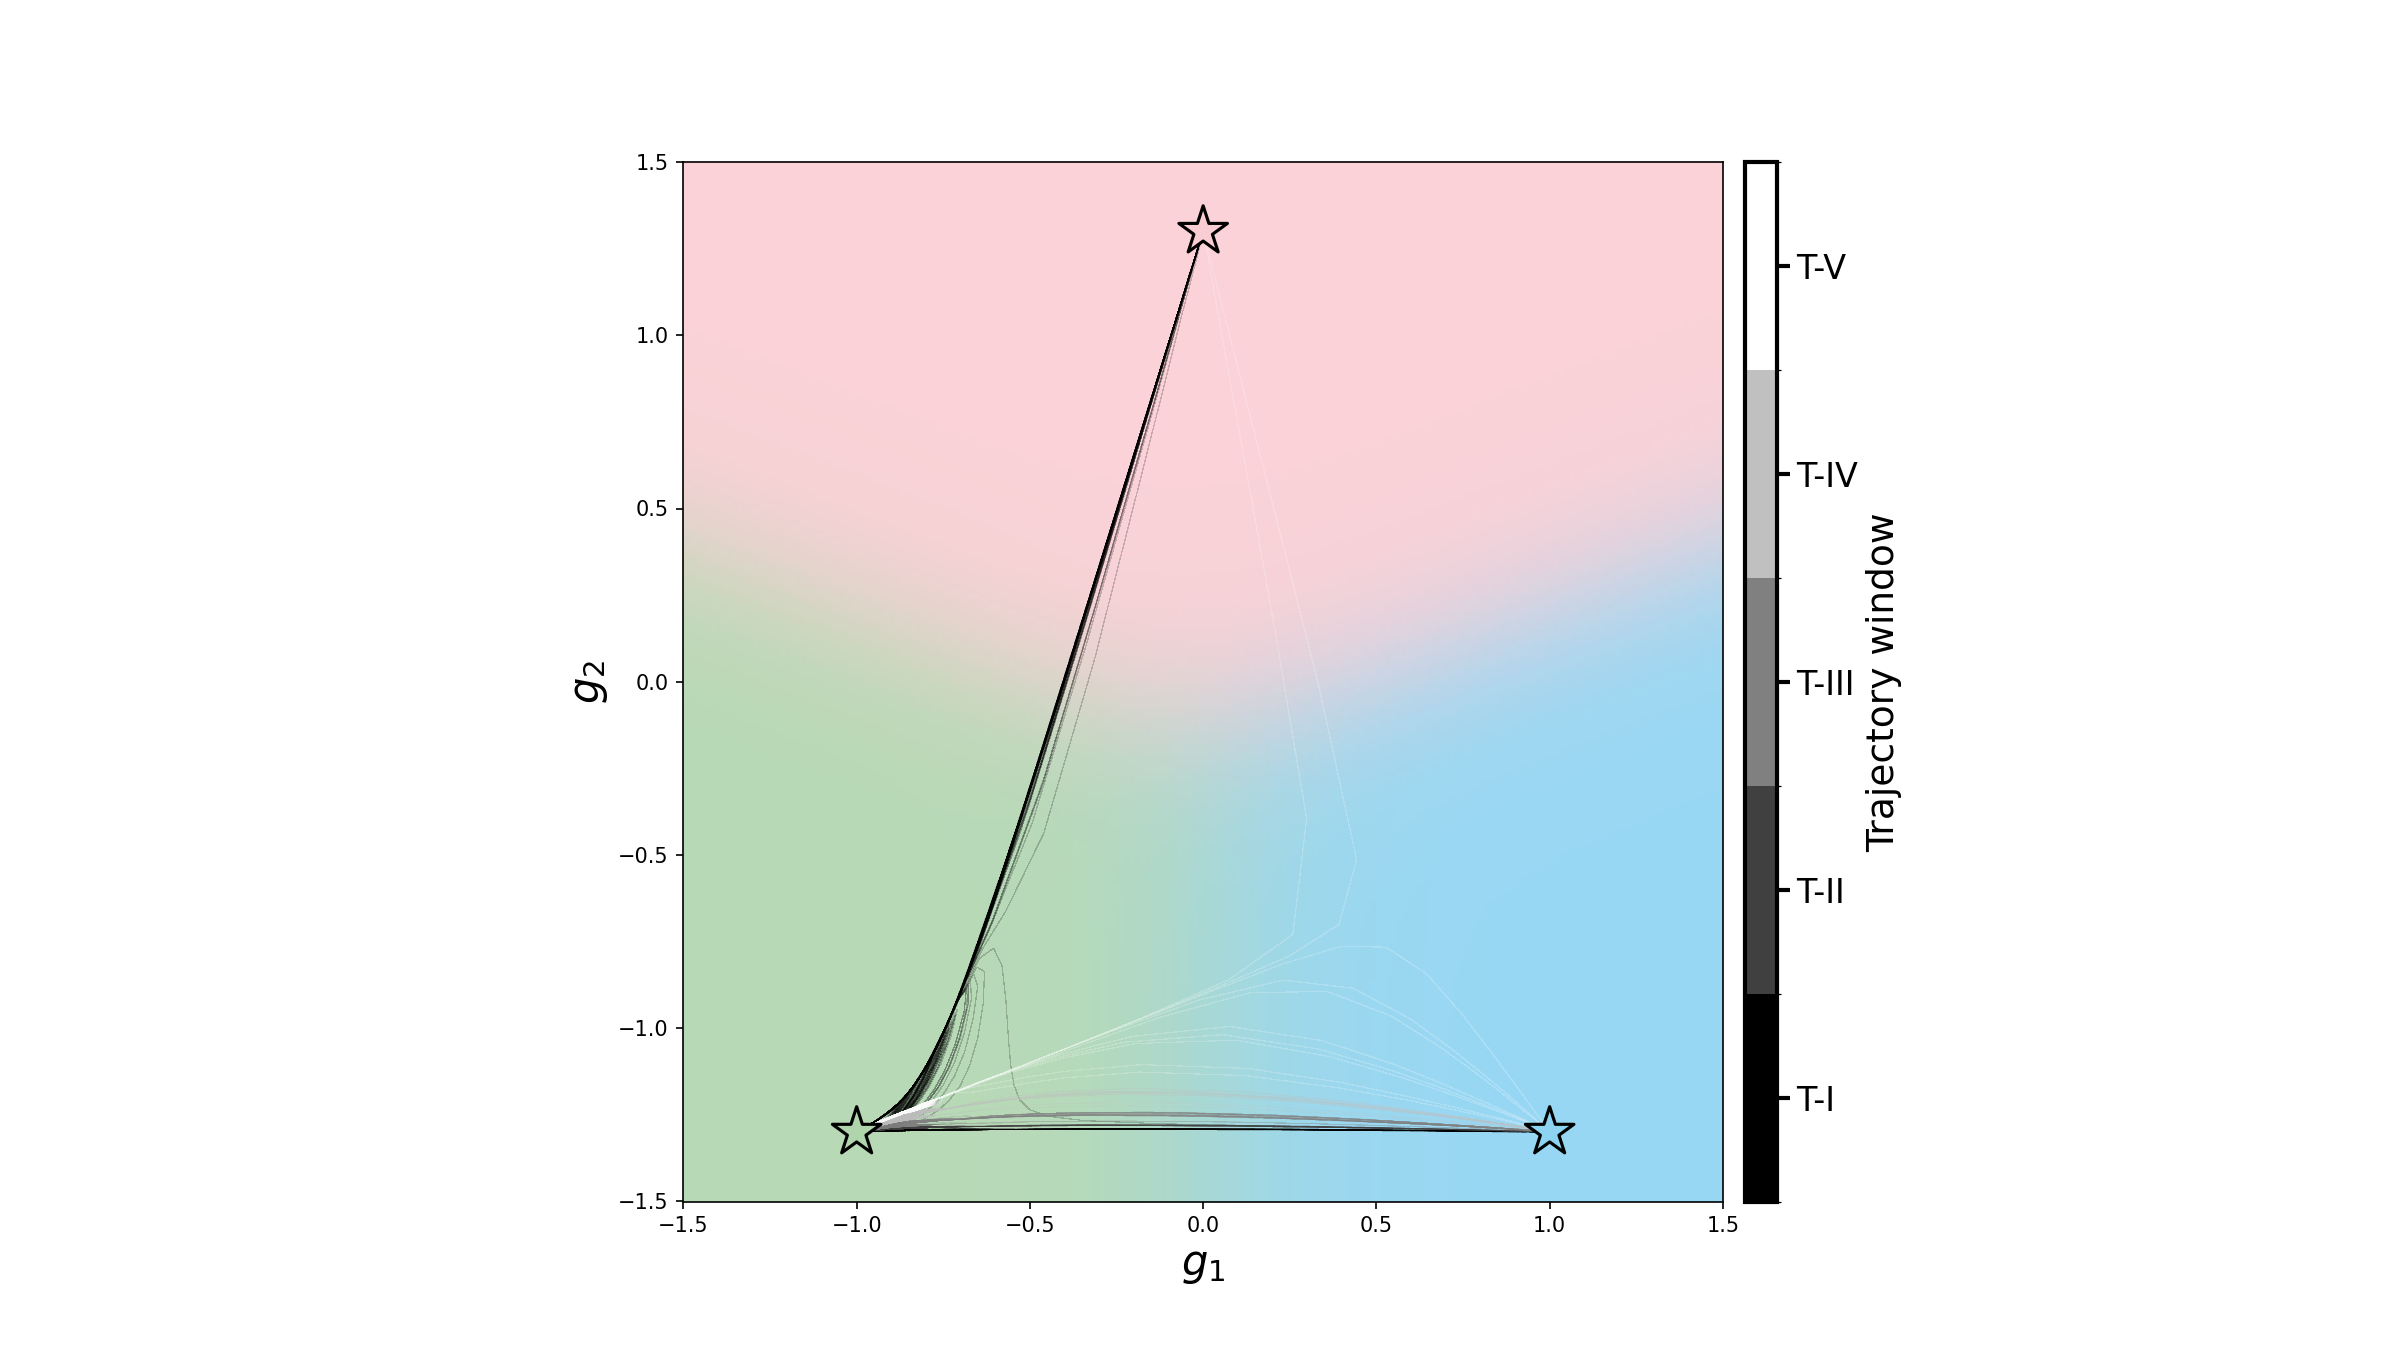
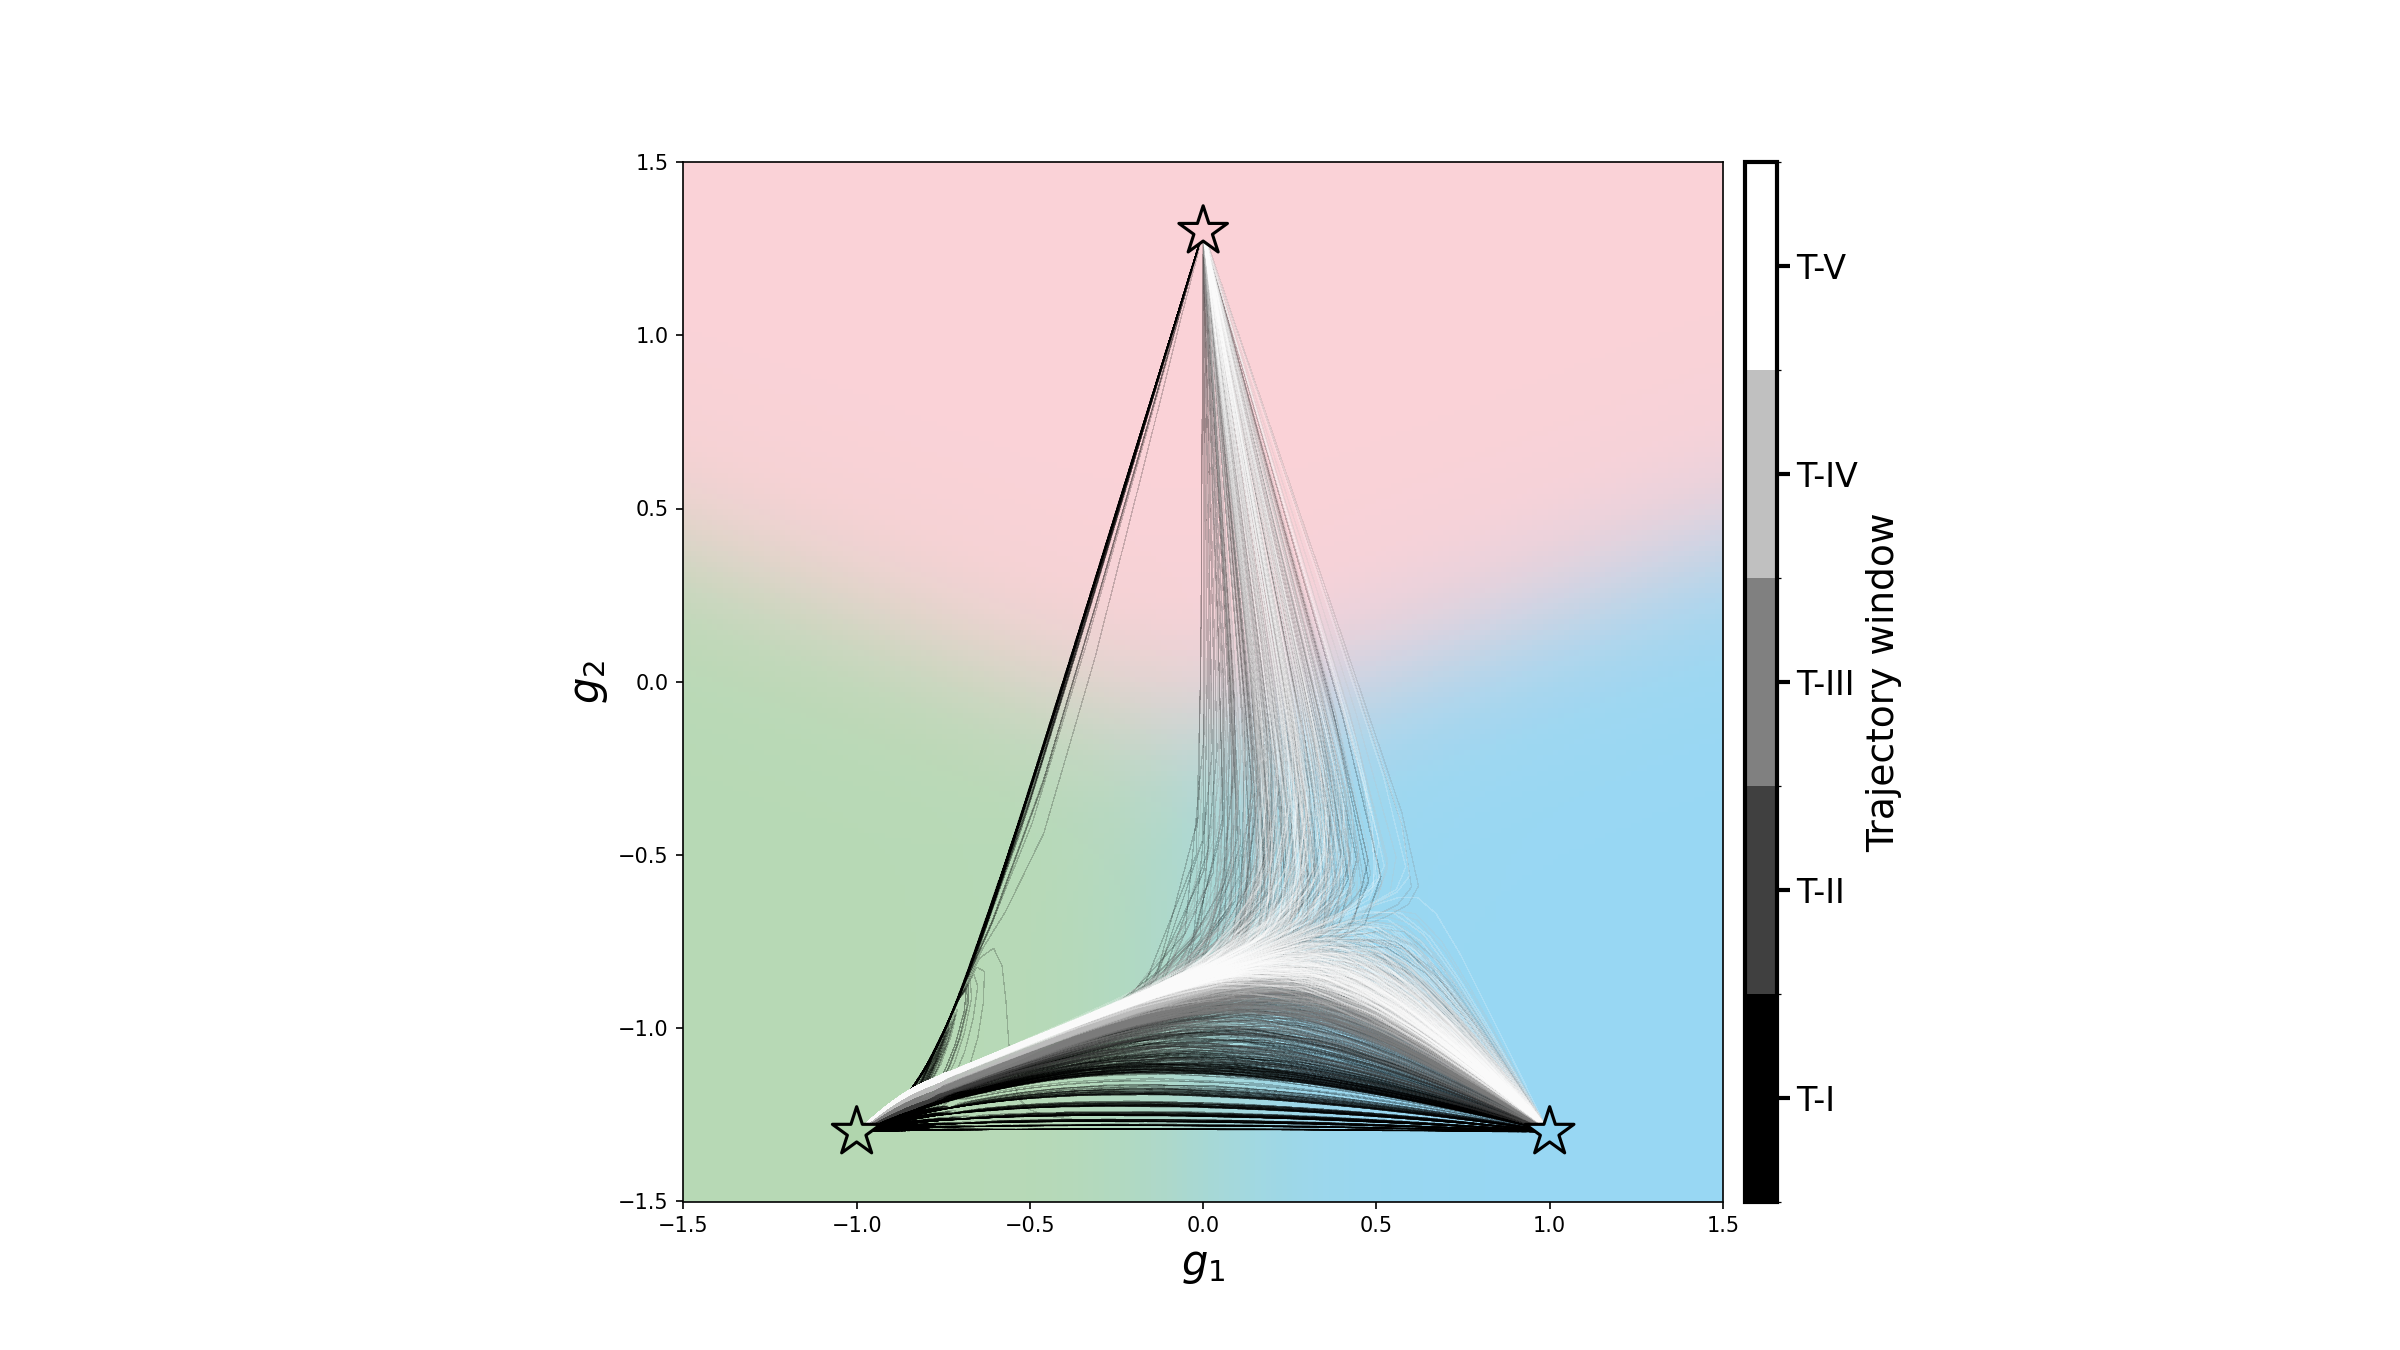
sync

Changed region(s): [[0.3438, 0.1867, 0.6562, 0.84]]

diff --git a/FigureCode/Fig4_wmu/make_z_movie.py b/FigureCode/Fig4_wmu/make_z_movie.py
@@ -1,105 +1,38 @@
-import numpy as np, matplotlib.pyplot as plt
-from matplotlib.animation import FuncAnimation
-
-z = np.load("run_save_growth.npz")['Ss_saves'][::10]
-z = z / z[:, -1][:, None]
-
-
-
-import jax
-jax.config.update("jax_enable_x64", True)
-
-import sys
-sys.path.append('../../common') # include the common folder
-
-import tqdm
-
-from sandscapes_main import *
-
-import tqdm
-
-import matplotlib
-import matplotlib.pyplot as plt
-
-import seaborn as sns
+import numpy as np, subprocess as sp, matplotlib; matplotlib.use("Agg")
+import matplotlib.pyplot as plt, matplotlib.colors as mc, seaborn as sns
+from multiprocessing import Pool
+from mpl_toolkits.axes_grid1 import make_axes_locatable
 sns.set_theme(palette="pastel")
 
-import numpy as np
-import matplotlib.colors
+z = np.load("run_save_growth.npz")["Ss_saves"][::10]; z = z / z[:, -1][:, None]
+d = np.load("data_catastrophe_2/catastrophe_data_growth.npz")
+zm, n = d["z_mus"], int(d["size_gamma"])
+N_pp = np.ceil((d["N_fps_space"] - 1) / 2.0)  # keep only odd FP counts
+cmap = mc.ListedColormap(["#D55E00", "#E69F00", "#56B4E9", "#009E73"])
+DPI = 150  # 400 gives 6000x2400 frames (~58 MB each); raise it if you really need it
 
+def init():  # runs once per worker: builds the full static figure
+    global fig, ln
+    fig, ax = plt.subplots(figsize=(15, 6), dpi=DPI)
+    im = ax.pcolormesh(zm[:, 0].reshape(n, n), zm[:, 1].reshape(n, n), N_pp, cmap=cmap, norm=mc.Normalize(0, 4))
+    ax.set_axisbelow(False); ax.grid(True, which="both", linewidth=0.8, alpha=0.25); ax.tick_params(labelsize=16)
+    cb = fig.colorbar(im, cax=make_axes_locatable(ax).append_axes("right", size="3%", pad=0.05))
+    cb.set_ticks(np.arange(4) + 0.5); cb.set_ticklabels([1, 3, 5, 7], fontsize=16); cb.set_label("Number of FPs", labelpad=20, fontsize=24)
+    ax.set_xlabel(r"$\tilde{z}_1$", fontsize=24); ax.set_ylabel(r"$\tilde{z}_2$", fontsize=24)
+    ax.set_xlim(z[:, 0].min(), z[:, 0].max()); ax.set_ylim(z[:, 1].min(), z[:, 1].max()); ax.set_aspect("auto")
+    fig.tight_layout(); ln, = ax.plot([], [], ".", color="crimson")
+    return fig
 
-colors = [    (0.8352941176, 0.3686274510, 0.0000000000, 1.0),  # 4: #D55E00 Vermilion
-              (0.9019607843, 0.6235294118, 0.0000000000, 1.0),  # 1: #E69F00 Orange
-              (0.3372549020, 0.7058823529, 0.9137254902, 1.0),  # 2: #56B4E9 Sky-blue
-              (0.0000000000, 0.6196078431, 0.4509803922, 1.0),  # 3: #009E73 Bluish-green
-          ]
+def render(t):  # trail of the last 100 points, same as your t>100 logic
+    ln.set_data(z[max(0, t - 100):t, 0], z[max(0, t - 100):t, 1]); fig.canvas.draw()
+    return fig.canvas.buffer_rgba().tobytes()
 
-
-
-common_cmap = matplotlib.colors.ListedColormap(colors)
-common_norm = matplotlib.colors.Normalize(0, 4)
-
-
-data = np.load("data_catastrophe_2/catastrophe_data_growth.npz") #long_iso
-N_fps_space = data["N_fps_space"]
-z_mus = data["z_mus"]
-size_gamma = data["size_gamma"]
-beta = data["beta"]
-XIs = data["XIs"]
-w_mu = data["w_mu"]
-
-
-# preprocess the FPs so that only odd numbers are kept
-N_fps_space_pp = np.ceil((N_fps_space - 1)/2.0)
-
-slinesize = 100
-
-
-fig, ax = plt.subplots(1, 1, figsize=(15, 6), dpi=400)
-
-im=ax.pcolormesh(z_mus[:, 0].reshape(size_gamma, size_gamma),
-              z_mus[:, 1].reshape(size_gamma, size_gamma),
-                 N_fps_space_pp, cmap=common_cmap, norm=common_norm)
-
-
-ax.set_axisbelow(False)
-ax.grid(True, which="both", linewidth=0.8, alpha=0.25)
-
-# Increase fontsize for both x and y axes
-ax.tick_params(axis='both', labelsize=16)
-
-
-# CBAR
-
-from mpl_toolkits.axes_grid1 import make_axes_locatable
-
-divider = make_axes_locatable(ax)
-cax = divider.append_axes("right", size="3%", pad=0.05)
-cb = fig.colorbar(im, cax=cax)
-
-cb.set_ticks(np.arange(4)+0.5)
-cb.set_ticklabels([1, 3, 5, 7], fontsize=16)
-cb.set_label("Number of FPs", labelpad=20, fontsize=24)
-
-ax.set_xlabel(r"$\tilde{z}_1$", fontsize=24)
-ax.set_ylabel(r"$\tilde{z}_2$", fontsize=24)
-
-ax.set_xlim(np.min(z_mus[:, 0]), np.max(z_mus[:, 0]))
-ax.set_ylim(np.min(z_mus[:, 1]), np.max(z_mus[:, 1]))
-ax.set_aspect("auto")
-plt.tight_layout()
-
-
-ln, = ax.plot([], [], ".", color="crimson")
-ax.set_xlim(z[:, 0].min(), z[:, 0].max())
-ax.set_ylim(z[:, 1].min(), z[:, 1].max())
-
-def upd(t):
-    if t%100==0: print(t)
-
-    ln.set_data(z[:t, 0], z[:t, 1]); 
-    if t>100:
-        ln.set_data(z[t-100:t, 0], z[t-100:t, 1]); 
-    return ln,
-
-FuncAnimation(fig, upd, frames=range(0, len(z), 10), blit=False).save("z_movie.mp4", fps=30)
+if __name__ == "__main__":
+    print("Multiprocessed")
+    W, H = init().canvas.get_width_height()
+    ff = sp.Popen(["ffmpeg", "-y", "-f", "rawvideo", "-pix_fmt", "rgba", "-s", f"{W}x{H}", "-r", "30", "-i", "-",
+                   "-vf", "pad=ceil(iw/2)*2:ceil(ih/2)*2", "-vcodec", "libx264", "-pix_fmt", "yuv420p", "z_movie.mp4"], stdin=sp.PIPE)
+    with Pool(30, init) as p:
+        for i, f in enumerate(p.imap(render, range(0, len(z), 10), chunksize=2)):
+            ff.stdin.write(f); i % 100 or print(i)
+    ff.stdin.close(); ff.wait()

diff --git a/FigureCode/Fig4_wmu/A_catastrophe_plot_growth.py b/FigureCode/Fig4_wmu/A_catastrophe_plot_growth.py
@@ -31,7 +31,7 @@ def calculate_growth_grad(z_base, growth_point, XIs, beta, w_mu):
     mute_cells_ts = jnp.ones((tmax, 1))#*1E-5
 
     D_2 = calculate_distances(jnp.asarray([growth_point]), XIs)
-    S_0 = gamma_base# + calculate_signals(beta, D_2, jnp.asarray([1.0]))[0]
+    S_0 = gamma_base # + calculate_signals(beta, D_2, jnp.asarray([1.0]))[0]
     z_0 = S_0[:-1]/(S_0[-1])
     
     Xs = training_loop_nosave(jnp.asarray([growth_point]), jnp.asarray([growth_point]), XIs,
@@ -40,7 +40,7 @@ def calculate_growth_grad(z_base, growth_point, XIs, beta, w_mu):
 
 
     D_2 = calculate_distances(Xs, XIs)
-    S_f = w_mu * calculate_signals(beta, D_2)[0]+gamma_base
+    S_f = (calculate_signals(beta, D_2)[0]+gamma_base)
     z_f = S_f[:-1]/(S_f[-1])
 
     dz = z_f - z_0
@@ -98,17 +98,29 @@ n_x = 20
 
 starts_x0    = np.c_[np.full(n_y, X.min()),    np.linspace(Y.min(), Y.max()*0.95, n_y)]
 starts_x2000 = np.c_[np.full(n_y, X.max()), np.linspace(4, Y.max()*0.95, n_y)] # 4 is roughly the flip
-starts_y0    = np.c_[np.linspace(X.min(), X.max(), n_x), np.full(n_x, Y.min())]
-
+starts_y0    = np.c_[np.linspace(20, 25, n_x), np.full(n_x, Y.min())]
+print(starts_y0); exit();
 start_points = np.vstack([starts_x2000, starts_y0])
 
 ax.streamplot(
     X, Y, U, V,
     color="white",
     linewidth=3,
-    start_points=start_points,
+    start_points=starts_x2000,
     arrowsize=0.0,
     density=10.0,
+    maxlength=10.0,
+    integration_direction="forward"
+)
+
+
+ax.streamplot(
+    X, Y, U, V,
+    color="red",
+    linewidth=3,
+    start_points=starts_y0,
+    arrowsize=0.0,
+    density=1.0,
     maxlength=10.0,
     integration_direction="forward"
 )
@@ -119,7 +131,7 @@ ax.streamplot(
     color="white",
     linewidth=3,
     start_points=starts_x0,
-    arrowsize=0.0,
+    arrowsize=1.0,
     density=10.0,
     maxlength=slinesize,
     integration_direction="forward"

diff --git a/FigureCode/Fig4_wmu/make_cells_movie.py b/FigureCode/Fig4_wmu/make_cells_movie.py
@@ -1,17 +1,21 @@
-import numpy as np, matplotlib.pyplot as plt
-from matplotlib.animation import FuncAnimation
+import numpy as np, subprocess as sp, matplotlib; matplotlib.use("Agg"); import matplotlib.pyplot as plt
+from multiprocessing import Pool
+X = np.load("Xs_saves.mmap", mmap_mode="r")[::10]; S = np.asarray(X[::100]); K = X.shape[1]
 
-X = np.load("Xs_saves.mmap", mmap_mode="r")[-2000:]  # (t, K, 2)
-sample = np.asarray(X[::100])
+def init():  # runs once per worker: each worker builds its own figure
+    global fig, sc
+    fig, ax = plt.subplots(figsize=(10, 8), dpi=100)
+    sc = ax.scatter(np.zeros(K), np.zeros(K), c=np.arange(K), cmap="viridis", s=1)
+    ax.set_xlim(S[..., 0].min() - .1, S[..., 0].max() + .1); ax.set_ylim(S[..., 1].min() - .1, S[..., 1].max() + .1)
 
-fig, ax = plt.subplots(figsize=(10, 8))
-sc = ax.scatter(np.zeros(X.shape[1]), np.zeros(X.shape[1]), c=np.arange(X.shape[1]), cmap="viridis", s=1)
-sc.set_offsets(np.full((X.shape[1], 2), np.nan))
-ax.set_xlim(sample[..., 0].min() - .1, sample[..., 0].max() + .1)
-ax.set_ylim(sample[..., 1].min() - .1, sample[..., 1].max() + .1)
+def render(t):
+    sc.set_offsets(np.asarray(X[t])); fig.canvas.draw()
+    return fig.canvas.buffer_rgba().tobytes()
 
-def upd(t): 
-    if t%100==0: print(t)
-    sc.set_offsets(np.asarray(X[t])); 
-    return sc,
-FuncAnimation(fig, upd, frames=range(0, len(X), 10), blit=False).save("cells_movie.mp4", fps=30)
+if __name__ == "__main__":
+    ff = sp.Popen(["ffmpeg", "-y", "-f", "rawvideo", "-pix_fmt", "rgba", "-s", "1000x800", "-r", "30", "-i", "-",
+                   "-vcodec", "libx264", "-pix_fmt", "yuv420p", "cells_movie.mp4"], stdin=sp.PIPE)
+    with Pool(30, init) as p:
+        for i, f in enumerate(p.imap(render, range(0, len(X), 1), chunksize=2)):
+            ff.stdin.write(f); i % 100 or print(i)
+    ff.stdin.close(); ff.wait()

diff --git a/FigureCode/Fig4_wmu/B_simulate_triangle_growth.py b/FigureCode/Fig4_wmu/B_simulate_triangle_growth.py
@@ -20,10 +20,10 @@ parser.add_argument('--seed', type=int, default=4)
 parser.add_argument('--filename', type=str, default="run_save_growth.npz")
 args = parser.parse_args()
 
-def calculate_signals_t(X, XI, beta, gamma, mute_cells):
+def calculate_signals_t(X, XI, beta, gamma, mute_cells, w_mu):
     D_2 = calculate_distances(X, XI)
     S = calculate_signals(beta, D_2)
-    S_sum = calculate_aggregate_signals(S, mute_cells) + gamma
+    S_sum = (calculate_aggregate_signals(S, mute_cells) + gamma) * w_mu
     return S_sum
 
 calculate_signals_all_t = jax.vmap(calculate_signals_t, in_axes=(0, None, None, None, 0))
@@ -40,11 +40,11 @@ q = args.q
 w_mu = jnp.asarray([20.0, 20.0, 1.0]) # 6 seems good
 
 
-gamma = jnp.asarray([800.0, 150.0, 1.0])*q + 1E-5
+gamma = jnp.asarray([800.0, 2*150.0, 1.0])*q + 1E-5
 gamma = gamma / w_mu
 
-beta = 1.5 
-K = 2000*10*4  # 4
+beta = 1.500 #1.5 
+K = 750*10*4  # 4
 
 tmax= K*30  # here it's inverse rate
 a = (tmax)/K
@@ -55,7 +55,7 @@ keys = jax.random.split(key, (tmax,))
 X_STEM = jnp.asarray([ XIs[0] ])
 X_0 = X_STEM.repeat(K, axis=0)
 
-N_TIME_CHUNKS = 400
+N_TIME_CHUNKS = 25 #400
 time_chunk_size = tmax // N_TIME_CHUNKS
 
 k = jnp.arange(K)[None, :]
